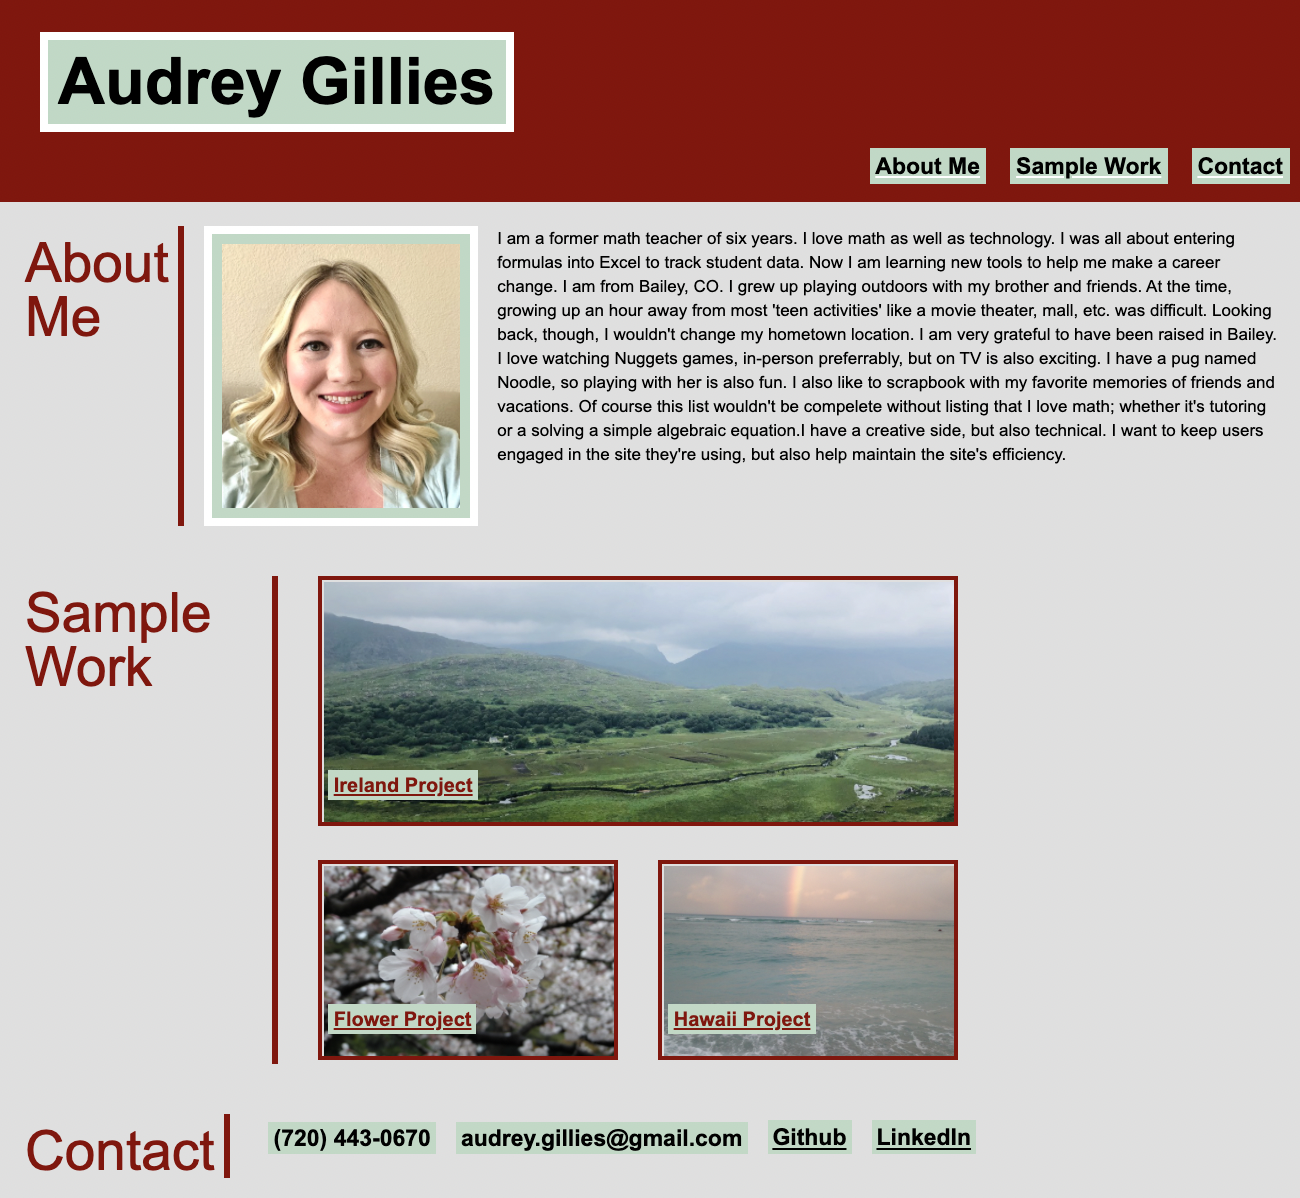
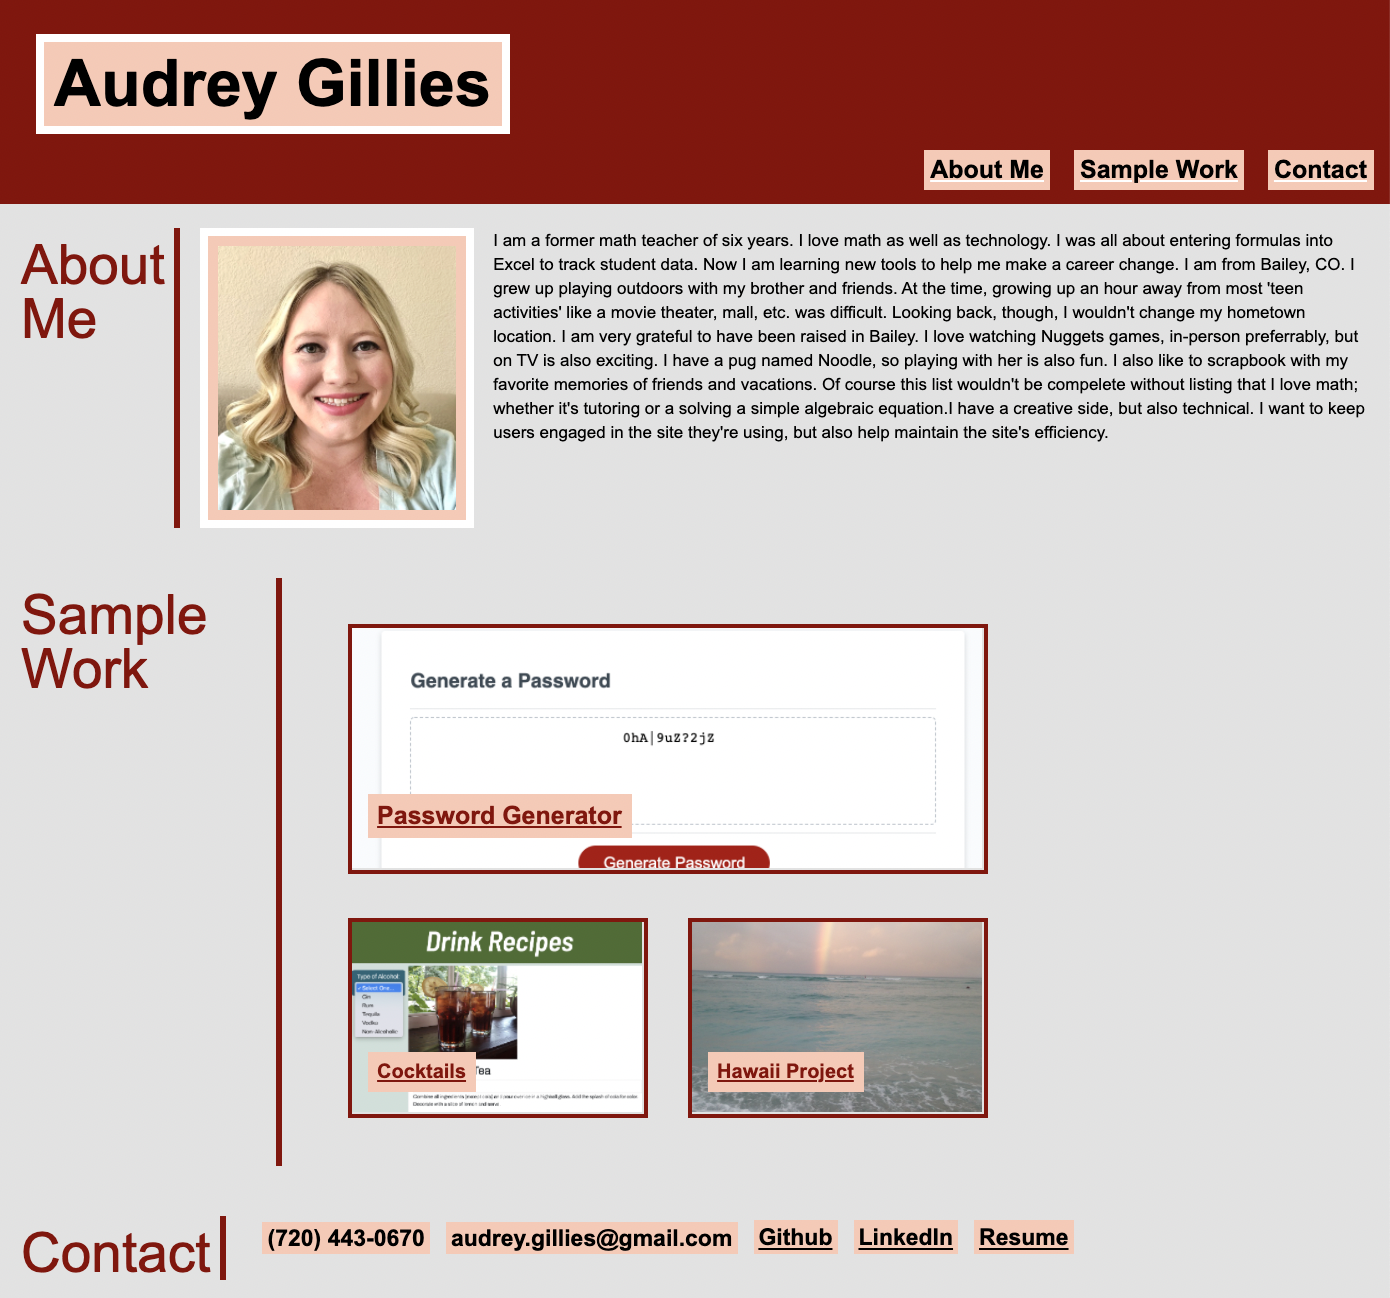
deleted old images which are no longer being used.  updated new screenshot in README

diff --git a/README.md b/README.md
@@ -2,7 +2,7 @@
 
 ## Description
 
-My portfolio is used to promote information about myself and my work to anyone who views it, such as potential new employers. I have included navigation links in the top section, links to projects I have made, and contact information. I worked on cleaning up my css file and omitting unnecessary classes. I practiced with pseudo classes as well as media queries.
+My portfolio is used to promote information about myself and my work to anyone who views it, such as potential new employers. I have included navigation links in the top section, links to projects I have made, and contact information.
 
 ## Assets
 
@@ -14,4 +14,4 @@ The following image is a screenshot of my html file loaded in a browser.
 
 Click below to open the actual link.
 
-[My Live Website](https://audrey-g37.github.io/Audrey-Portfolio/)
+[Audrey Gillies' Portfolio](https://audrey-g37.github.io/Audrey-Portfolio/)
